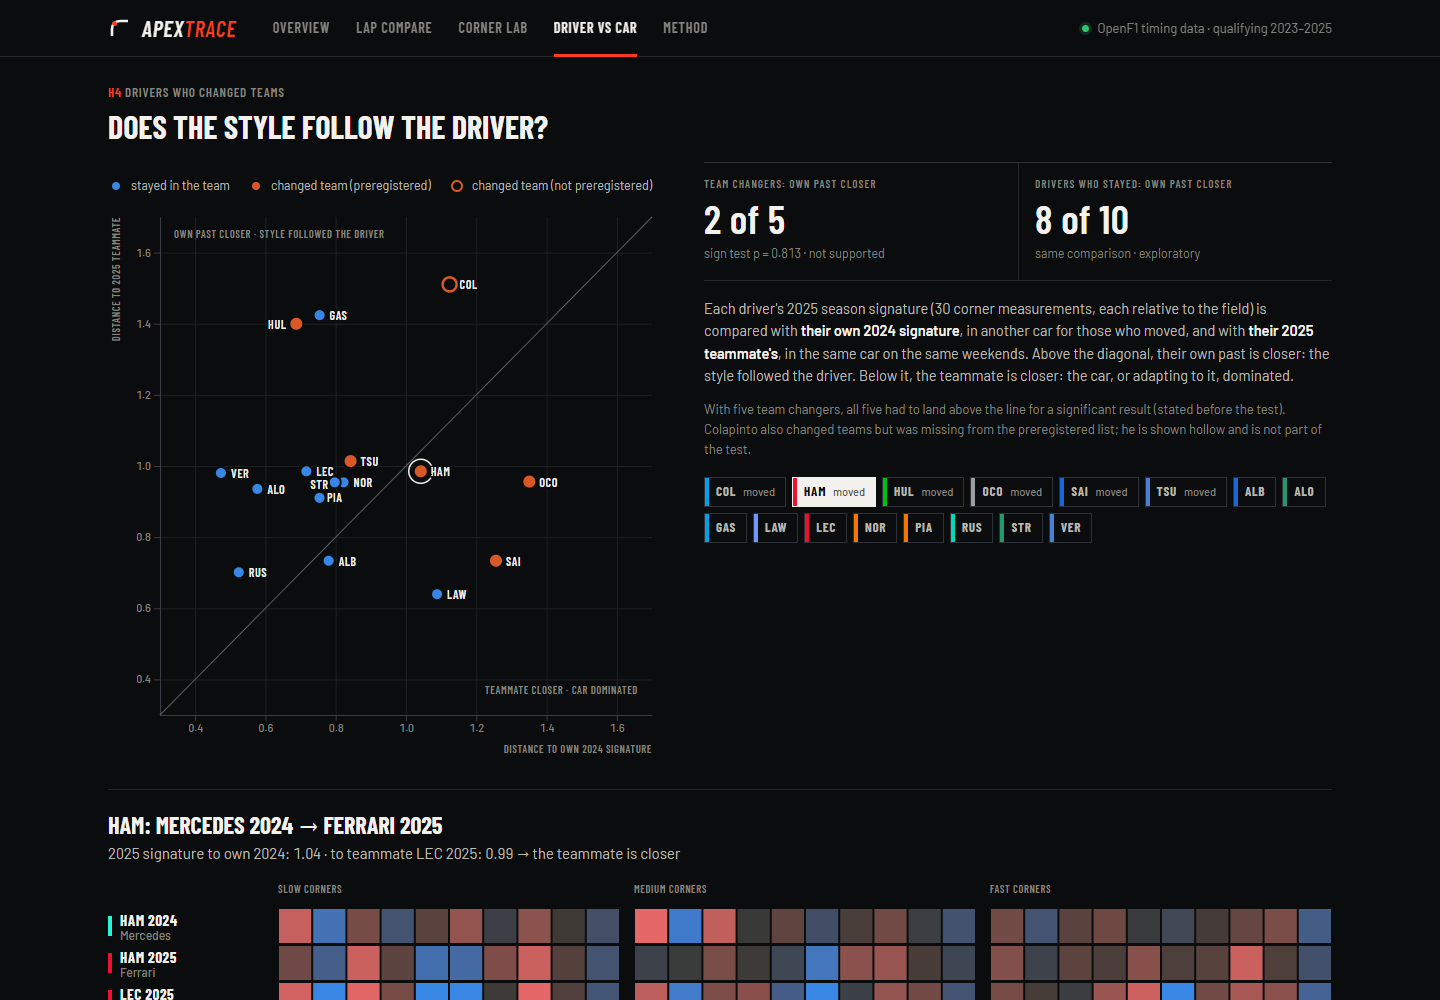
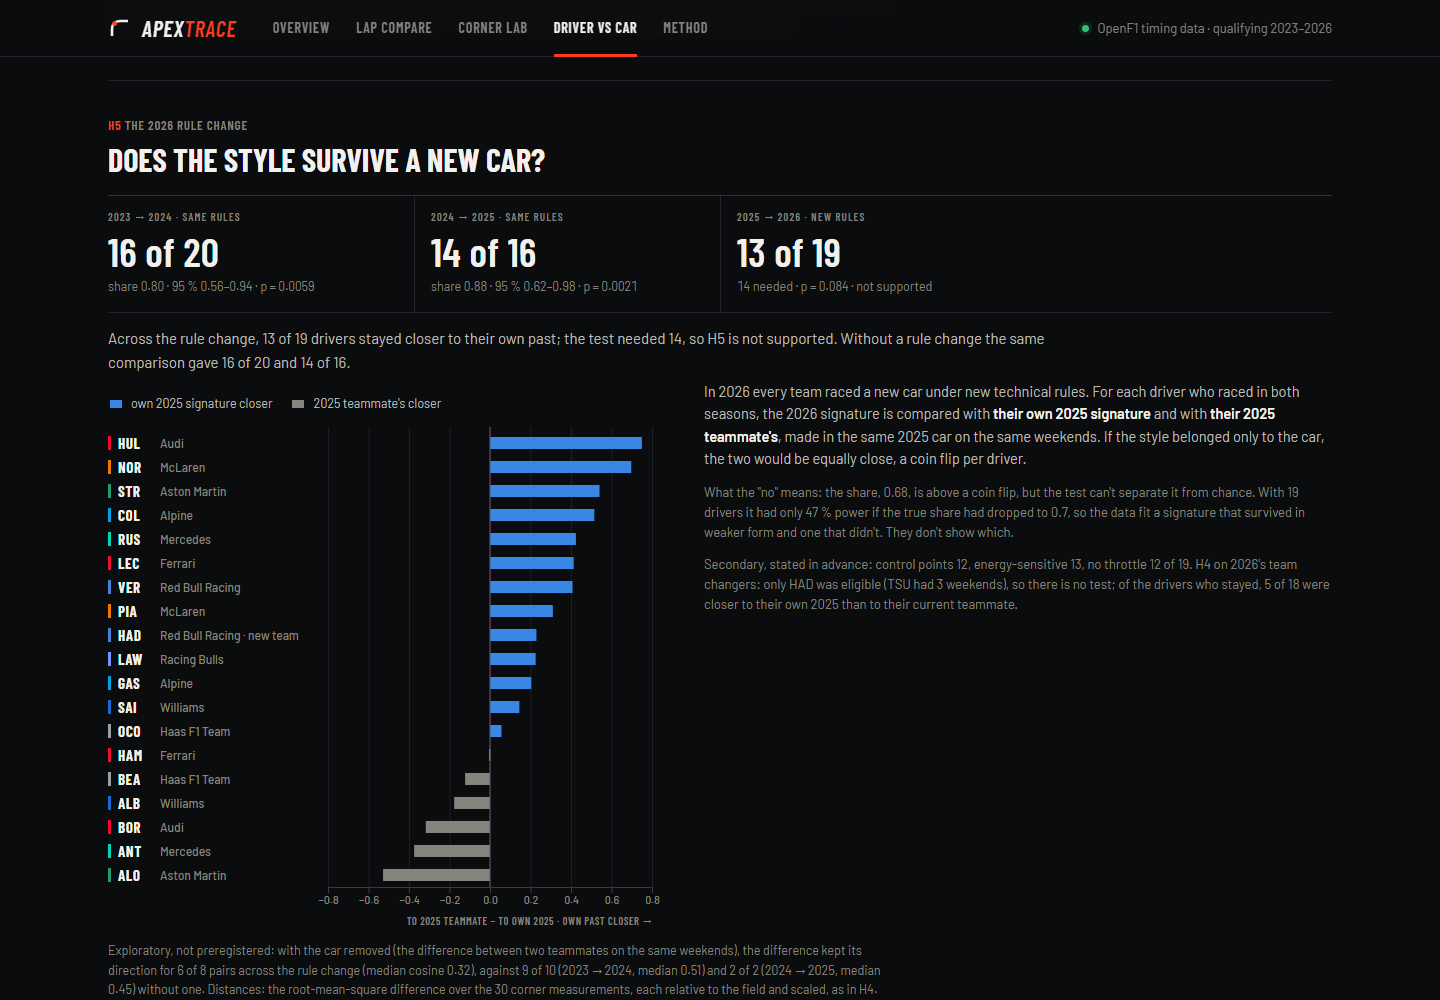
retake the readme screenshots with a script and update the ci actions

diff --git a/experiments/31_screenshots.py b/experiments/31_screenshots.py
@@ -1,0 +1,107 @@
+"""The five README screenshots (docs/images/*.png), taken the same way every time.
+
+The images were first taken by hand (2026-10-20). This script makes them reproducible: it starts
+the web app on a free local port, opens each page in Microsoft Edge (through Playwright, using the
+Edge already installed on Windows, so no browser is downloaded), waits until the fonts and charts
+are drawn, and saves the visible part of the window at 1440 x 1000 pixels. It stops with an error
+if a page logs a JavaScript error, so a broken page can't end up in the README.
+
+Pages (the framing of the October images, updated for 2026):
+  overview.png       the overview, with the 2024 Abu Dhabi pole laps replaying
+  lap_compare.png    a 2026 session (Mexico City, the default pair: each driver's fastest lap
+                     without a hole in the data)
+  corner_lab.png     the default braking zone (2024 Abu Dhabi)
+  driver_vs_car.png  scrolled to the H5 section (the 2026 test)
+  method.png         the measurement-science page
+
+Everything shown is drawn from the timing data: no logos, photos or broadcast material.
+Needs Playwright (tested with 1.64.0: pip install playwright==1.64.0) and the local raw samples
+for Lap compare (results/final_2026/raw_samples_2026.parquet). Not part of the tests or CI.
+Run from the repo root (~30 s):
+    .venv\\Scripts\\python.exe experiments\\31_screenshots.py
+"""
+
+import sys
+import threading
+import time
+from pathlib import Path
+
+REPO_ROOT = Path(__file__).resolve().parent.parent
+sys.path.insert(0, str(REPO_ROOT))      # so `import app` works when this file is run as a script
+OUT_DIR = REPO_ROOT / "docs" / "images"
+VIEWPORT = {"width": 1440, "height": 1000}
+TOPBAR_PX = 64                          # the sticky top bar: a scrolled section starts below it
+REPLAY_SECONDS = 5.0                    # how long the overview replay runs before the picture
+
+
+def start_app():
+    """The Flask app on a free port, in a background thread. Returns (server, base URL).
+
+    threaded=True, as `flask run` and app.run use: a single-threaded server serves one
+    connection at a time, and a browser keeps connections open, so a page could wait ~20 s
+    for a connection the previous page left open (seen on the first run of this script).
+    """
+    import logging
+
+    from werkzeug.serving import make_server
+
+    from app import create_app
+
+    logging.getLogger("werkzeug").setLevel(logging.ERROR)    # no line per request
+    server = make_server("127.0.0.1", 0, create_app(), threaded=True)
+    threading.Thread(target=server.serve_forever, daemon=True).start()
+    return server, f"http://127.0.0.1:{server.server_port}"
+
+
+def session_key(base, year, location):
+    import json
+    import urllib.request
+
+    with urllib.request.urlopen(f"{base}/api/sessions") as response:
+        index = json.load(response)
+    return next(s["key"] for s in index if s["year"] == year and s["location"] == location)
+
+
+def shots(base):
+    """(file name, path, element to wait for, element to scroll to or None, extra seconds)."""
+    mexico = session_key(base, 2026, "Mexico City")
+    return [
+        ("overview.png", "/", "#hero-svg path", None, REPLAY_SECONDS),     # the drawn track, not the empty svg
+        ("lap_compare.png", f"/telemetry?session={mexico}", ".chart-panel", None, 1.0),
+        ("corner_lab.png", "/corners", "#tower svg", None, 0.5),
+        ("driver_vs_car.png", "/signatures", "#h5-chart svg", "section[aria-labelledby='h5-title']", 0.5),
+        ("method.png", "/method", "#funnel-chart svg", None, 0.5),
+    ]
+
+
+def main():
+    from playwright.sync_api import sync_playwright
+
+    server, base = start_app()
+    errors = []
+    try:
+        with sync_playwright() as playwright:
+            browser = playwright.chromium.launch(channel="msedge")
+            for name, path, wait_for, scroll_to, extra in shots(base):
+                page = browser.new_page(viewport=VIEWPORT, device_scale_factor=1)
+                page.on("console", lambda m, n=name: errors.append(f"{n}: {m.text}") if m.type == "error" else None)
+                page.on("pageerror", lambda e, n=name: errors.append(f"{n}: {e}"))
+                page.goto(base + path)
+                page.wait_for_selector(wait_for, timeout=30000)
+                page.evaluate("document.fonts.ready")
+                if scroll_to:
+                    top = page.eval_on_selector(scroll_to, "e => e.getBoundingClientRect().top + window.scrollY")
+                    page.evaluate(f"window.scrollTo(0, {top - TOPBAR_PX - 16})")
+                time.sleep(extra)
+                page.screenshot(path=str(OUT_DIR / name))
+                print(f"{name:18s} {path}")
+                page.close()
+            browser.close()
+    finally:
+        server.shutdown()
+    if errors:
+        raise SystemExit("JavaScript errors, screenshots not trusted:\n" + "\n".join(errors))
+
+
+if __name__ == "__main__":
+    main()

diff --git a/README.md b/README.md
@@ -58,11 +58,11 @@ the telemetry.
 
 <table>
 <tr>
-<td width="50%"><img src="docs/images/lap_compare.png" alt="Lap compare page"><br><b>Lap compare.</b> Any two qualifying laps: speed, throttle, brake and gear on one distance axis, the time gap at every metre, who was faster in each mini-sector, and a replay of both cars (×1/×2/×4, click a chart or the map to jump there).</td>
+<td width="50%"><img src="docs/images/lap_compare.png" alt="Lap compare page"><br><b>Lap compare.</b> Any two qualifying laps of 2023–2026 (shown: 2026 Mexico City): speed, throttle, brake and gear on one distance axis, the time gap at every metre, who was faster in each mini-sector, and a replay of both cars (×1/×2/×4, click a chart or the map to jump there). Where the feed has a hole in a lap, the page says so instead of drawing across it.</td>
 <td width="50%"><img src="docs/images/corner_lab.png" alt="Corner lab page"><br><b>Corner lab.</b> One braking zone, every driver, every lap, with the per-lap measurement error drawn on the axis so real differences can be told from noise.</td>
 </tr>
 <tr>
-<td width="50%"><img src="docs/images/driver_vs_car.png" alt="Driver vs car page"><br><b>Driver vs car.</b> The H4 test: each driver's 2025 style against their own 2024 style and their new teammate's, plus a 30-measurement "fingerprint".</td>
+<td width="50%"><img src="docs/images/driver_vs_car.png" alt="Driver vs car page"><br><b>Driver vs car.</b> The H3, H4 and H5 tests. Shown: H5, each driver's 2026 signature against their own 2025 one and their 2025 teammate's, next to the same comparison without a rule change. The H4 part adds a 30-measurement "fingerprint" per driver.</td>
 <td width="50%"><img src="docs/images/method.png" alt="Method page"><br><b>Method.</b> The measurement science as live charts: how the feed samples the car, how filters move a braking point, which estimators were chosen and why, and how laps are aligned.</td>
 </tr>
 </table>
@@ -106,7 +106,7 @@ OpenF1 limits the request rate).
 | Folder | What |
 |---|---|
 | `src/apextrace/` | the package: data loading, quality checks, filters, alignment, events, features, statistics, identification, signatures |
-| `experiments/` | numbered scripts `00`–`30`; every number and figure comes from one of them |
+| `experiments/` | numbered scripts `00`–`31`; every number and figure comes from one of them |
 | `results/` | small outputs (JSON, CSV, figures); `results/final/` and `results/final_2026/` hold the frozen 2025 and 2026 tests |
 | `app/` | the web app (Flask, vanilla JavaScript, D3) |
 | `tests/` | pytest tests on synthetic signals; they never download F1 data |

diff --git a/docs/research_log.md b/docs/research_log.md
@@ -1430,3 +1430,41 @@ braking zone; it would need its own check.
 - I looked at the H5 section on desktop and phone, the results board and the funnel in Edge,
   with no console errors.
 - README and report are unchanged; `docs/preregistration.md` is byte-identical.
+
+---
+
+## 2026-11-12 — Day 20: README screenshots, docs, CI
+
+**Screenshots:** a new `experiments/31_screenshots.py` replaces the hand-taken images of
+2026-10-20. It starts the app on a free port, opens each page in Edge through Playwright at
+1440 × 1000, waits for the fonts and charts, and stops if a page logs a JavaScript error.
+- Lap compare now shows 2026 Mexico City; Driver vs car is scrolled to the H5 section.
+- The overview, Corner lab and Method framing is as before.
+- The README captions say so.
+- Its first run took 21 s on one page: my server was single-threaded, and the browser keeps
+  connections open. With `threaded=True` (what `app.run` uses) the whole run takes 14 s. The
+  app itself answers the first Corner lab request in 1.4 s, the cold import included.
+
+**CI:**
+- GitHub's run list (public API, read-only) shows `48c167a` failed and `7e166a6` and
+  `a52a290` passed.
+- The failed step was "Run the tests"; the logs need a login, so I reproduced it in a clean
+  local clone. At `48c167a` the public-files test fails on its own text, as diagnosed on
+  Day 18; at `a52a290` it passes.
+- My first reproduction attempt used `git archive` and was not faithful: without a git
+  repository the test fails for another reason.
+- The runs also warned that `actions/checkout@v4` and `setup-python@v5` use the deprecated
+  Node 20, and that `ubuntu-latest` moves to Ubuntu 26 from 2026-10-19.
+- The workflow now uses `checkout@v7` and `setup-python@v7`. Their `action.yml` was read at
+  the release tags (v7.0.1, v7.1.0): both run on Node 24, and `setup-python` still takes
+  `python-version` and `cache`.
+- The runner is pinned to `ubuntu-24.04`, so the test environment changes only when we change
+  it.
+- Not yet run on GitHub: the next push tests the new workflow file.
+
+**Verified:**
+- 205 tests pass.
+- I looked at all five new images: 1440 × 1000, current numbers, no logos or photos.
+- README: only the two captions and the experiment range (00–31) changed;
+  `docs/preregistration.md` is byte-identical.
+- The CI facts come from GitHub's API and a local clone, not from memory.

diff --git a/docs/engineering_notes.md b/docs/engineering_notes.md
@@ -74,6 +74,9 @@ recomputes the three preregistered tests in memory from the saved data, checks l
 across files and the 2026 timeline, and runs the tests (which include the checks of the
 hand-written documents). `--quick` skips the re-runs. Results: `results/30_audit/`.
 
+After changing what a page shows: `experiments/31_screenshots.py` re-takes the five README
+images the same way every time (Edge through Playwright, 1440 x 1000).
+
 ## Bug history
 
 - **2026-10-15 — Don't judge "slow laps" against the driver's session best.**
